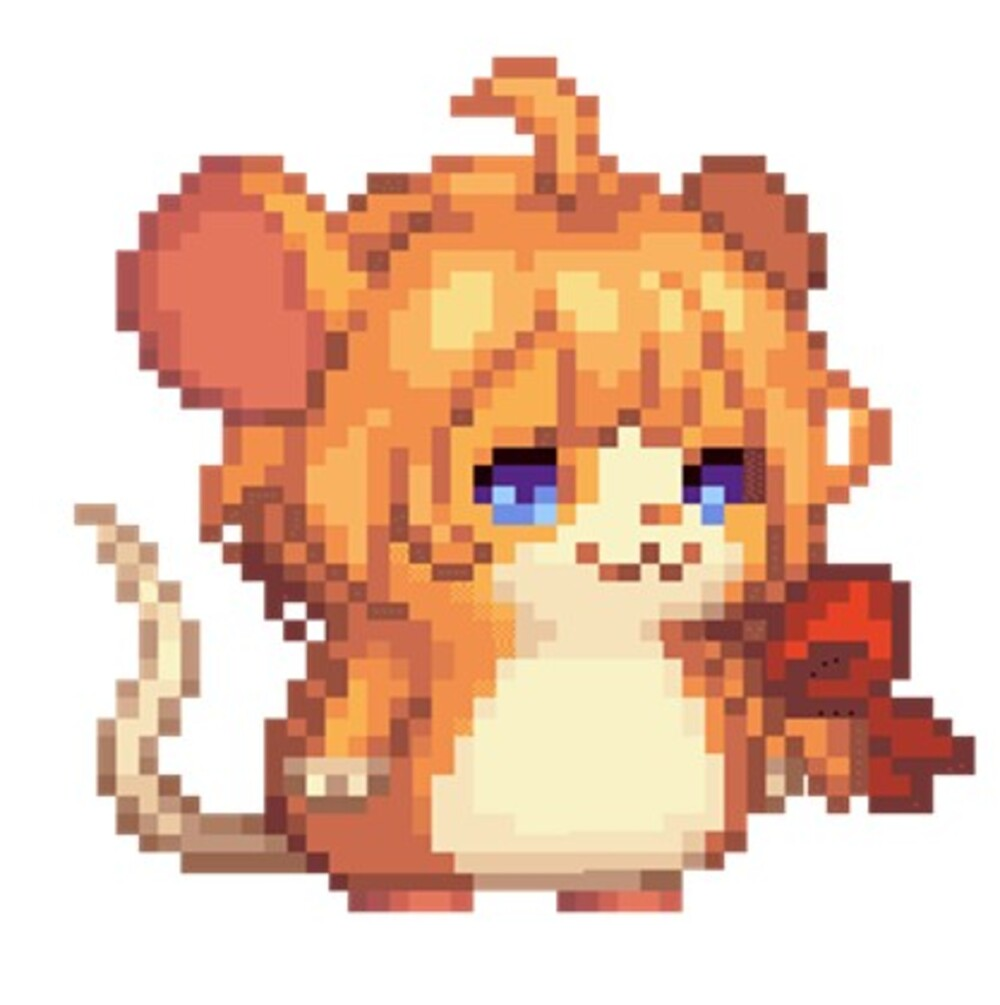
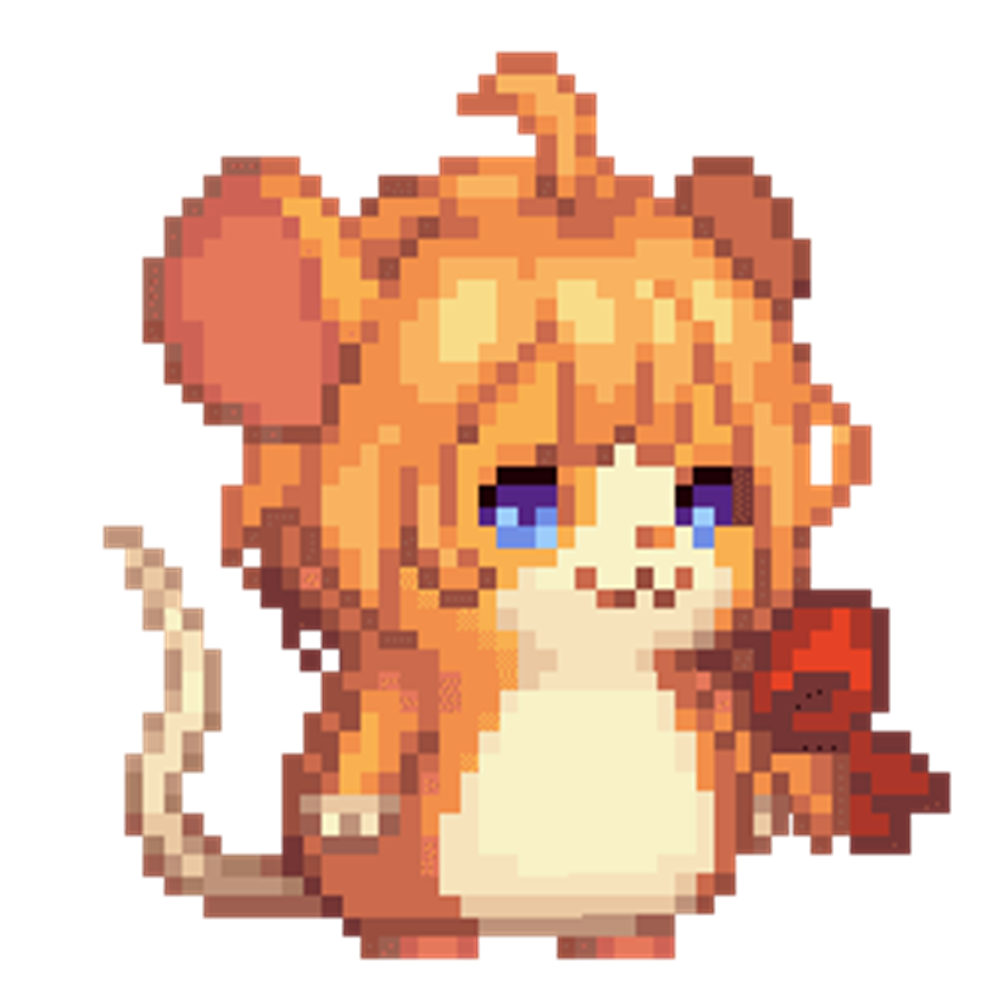
일부 변경 사항 적용
1. 커버이미지 변경

2. gitignore 제외 항목 추가

3. 워드클라우드 ImageColorGenerator 오류 조정

4. pyautogui 대신 selenium 의 action 이용하여 복사 붙여넣기 사용

5. launcher 재탐색 시간 변경

diff --git a/run.py b/run.py
@@ -206,9 +206,9 @@ while not taskdone and trial < trialend:
                             reupload_num += 1
                         
                 if not titleok:
-                    print('게시글 크롤링 실패. 15초 후 다시 시도해 봅니다.')
+                    print('게시글 크롤링 실패.',delaytime,'초 후 다시 시도해 봅니다.')
                     i -= 1
-                    time.sleep(5)
+                    time.sleep(delaytime)
 
         taskdone = True
 
@@ -227,23 +227,22 @@ while not taskdone and trial < trialend:
 
 print('워드클라우드 생성 중... [1/2]')
 ran = random.randrange(0,3)
-icon = Image.open("cover" + str(ran) + ".png").convert("RGBA")
+icon = Image.open("cover" + str(ran) + ".png")
 # 마스크가 될 이미지 불러오기
 
-mask = Image.new("RGBA", icon.size, (255, 255, 255, 1))
-x, y = icon.size
-mask.paste(icon, (0, 0, x, y), icon)
+mask = Image.new("RGB", icon.size, (255,255,255))
+mask.paste(icon, icon)
 mask = np.array(mask)
-# 빈 검은색 이미지를 생성해서 해당 파일을 원본 파일에 붙어넣어 마스크 이미지를 만듭니다.
+# 마스크 이미지를 만듭니다.
 
 wc_title = WordCloud(font_path=fontpath, background_color='black', collocations=False, stopwords=stopwords, prefer_horizontal=1,
                      mask=mask).generate(tdata)
 # 워드클라우드 폰트와 크기에 맞춰서 생성합니다.
 # font_path 글꼴 기록, stopwords 글꼴 제거, prefer_horizontal 0은 수직, 1은 수평, 없앨 경우 랜덤
 
-# 배경과 같은 색 입히기
 image_colors = ImageColorGenerator(mask)
-plt.imshow(wc_title.recolor(color_func=image_colors), interpolation="bilinear")
+image_colors.default_color = [0.6,0.6,0.6] # any value for RGB
+wc_recolored = wc_title.recolor(color_func=image_colors)
 
 print('이미지 저장 중...')
 wc_title.to_file('title.png')
@@ -398,7 +397,9 @@ if taskdone:
         try :
             from selenium import webdriver
             from selenium.webdriver.common.by import By
+            from selenium.webdriver.common.keys import Keys
             from selenium.webdriver.chrome.options import Options
+            from selenium.webdriver.common.action_chains import ActionChains
 
             # 디시인사이드 자료
             url = 'https://www.dcinside.com/'
@@ -424,6 +425,8 @@ if taskdone:
             driver = webdriver.Chrome(options=options)
             # 시스템에 이미 설치된 기본 ChromeDriver를 사용.
 
+            action = ActionChains(driver)
+
             # 디시인사이드 로그인 페이지 로드
             print('dcinside 로그인 작업 중...')
             driver.get(url)
@@ -443,11 +446,12 @@ if taskdone:
             # 제목 입력
             print('글 제목 입력중...')
             driver.find_element(By.XPATH, '//*[@id="subject"]').send_keys(title)
+            time.sleep(delaytime)
             pyautogui.moveTo(100, 200)
 
             # 이미지 복사하기
             print('이미지 복사 중...')
-            image = Image.open("C:\\Users\\user\\Desktop\\Python\\DC-wordcloud-daily\\title.png")
+            image = Image.open("./title.png") # 수정
             
             # 이미지 데이터를 BMP 형식으로 변환
             output = BytesIO()
@@ -463,8 +467,12 @@ if taskdone:
             print('이미지 복사 완료...')
 
             # 글쓰기 창 선택 (말머리 유무 확인 //*[@id="write"]/div[4]/div[3]/div[2])
-            driver.find_element(By.XPATH, '//*[@id="write"]/div[4]/div[3]/div[2]').click()
-            pyautogui.hotkey('ctrl', 'v')
+            #driver.find_element(By.XPATH, '//*[@id="write"]/div[4]/div[4]/div[2]').click()
+            driver.find_element(By.CLASS_NAME, 'note-editable').click()
+            time.sleep(delaytime)
+            
+            # pyautogui.hotkey('ctrl', 'v')
+            action.key_down(Keys.CONTROL).send_keys('v').key_up(Keys.CONTROL).perform()
             pyautogui.moveTo(300, 400)
             time.sleep(delaytime)
 
@@ -483,8 +491,8 @@ if taskdone:
             #         driver.find_element(By.XPATH, '//*[@id="write"]/div[3]/div[3]/textarea').send_keys(Keys.ALT + i)
             #     else :
             #         driver.find_element(By.XPATH, '//*[@id="write"]/div[3]/div[3]/textarea').send_keys(i)
-            
             driver.find_element(By.XPATH, '//*[@id="write"]/div[4]/div[3]/textarea').send_keys(content)
+            time.sleep(delaytime)
 
             # 다시 바깥 창 선택.
             driver.switch_to.default_content()
@@ -492,6 +500,7 @@ if taskdone:
             # 모든 값 입력 이후 다시 chk_html을 해제 (생략할 경우 글쓰기 버튼 미활성)
             driver.find_element(By.XPATH, '//*[@id="chk_html"]').click()
             pyautogui.moveTo(700, 800)
+
 
             #글쓰기 저장
             print('저장 후 전송중...')
@@ -510,7 +519,8 @@ if taskdone:
             time.sleep(delaytime)
             print('작업 마무리중...')
             break
-        except : 
+        except Exception as e : 
+            print(e)
             continue
         finally :
             driver.quit()

diff --git a/launcher.py b/launcher.py
@@ -2,7 +2,7 @@ import time, os
 from datetime import datetime
 
 # 대기 시간 : 초 기준
-waittime = 120
+waittime = 300
 
 # 날짜 파일이 없을 경우 새로 생성
 if not os.path.isfile('lastupd.txt'): open('lastupd.txt', 'w').write(datetime.now().strftime('%Y-%m-%d'))
